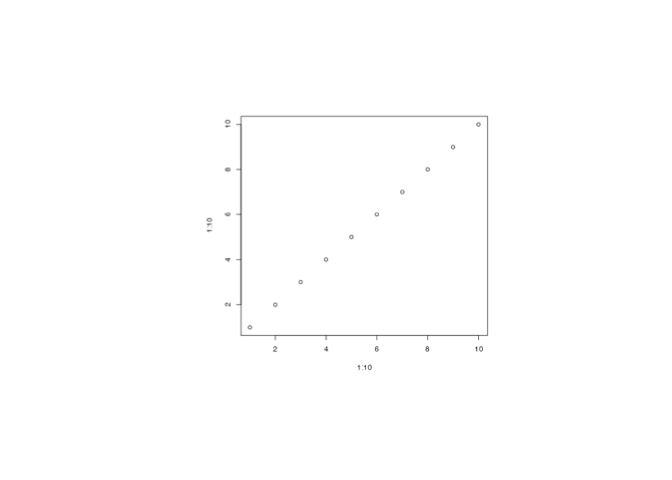
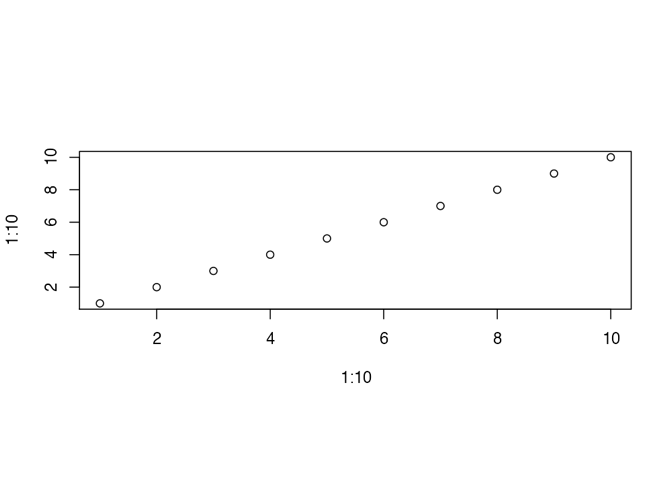
update readme

diff --git a/README.md b/README.md
@@ -34,10 +34,10 @@ devtools::install_github('r-lib/ragg')
 
 ## Use
 
-ragg provides drop-in replacements for the png and tiff graphic devices
-provided by default from the grDevices packages and can both produce png
-and tiff files. Notable features, that sets itself apart from the
-build-in devices, includes:
+ragg provides drop-in replacements for the png, jpeg, and tiff graphic
+devices provided by default from the grDevices packages and can both
+produce png, jpeg and tiff files. Notable features, that sets itself
+apart from the build-in devices, includes:
 
   - Faster (up to 40% faster than anti-aliased cairo device)
   - Direct access to all system fonts
@@ -47,9 +47,10 @@ build-in devices, includes:
   - System independent rendering (output from Mac, Windows, and Linux
     should be identical)
 
-You can use it like any other device. The main functions are `agg_png()`
-and `agg_tiff()`, both have arguments that closely match those of the
-`png()` and `tiff()` functions, so switching over should be easy.
+You can use it like any other device. The main functions are
+`agg_png()`, `agg_jpeg()` and `agg_tiff()`, all of which have arguments
+that closely match those of the `png()`, `jpeg()` and `tiff()`
+functions, so switching over should be easy.
 
 ``` r
 library(ragg)
@@ -76,12 +77,14 @@ Further, it provides an `agg_capture()` device that lets you access the
 device buffer directly from your R session.
 
 ``` r
-cap <- agg_capture()
+cap <- agg_capture(width = 1000, height = 500, res = 144)
 plot(1:10, 1:10)
 
 scatter <- cap()
 invisible(dev.off())
 
+# Remove margins from raster plotting
+par(mai = c(0, 0, 0, 0))
 plot(as.raster(scatter))
 ```
 
